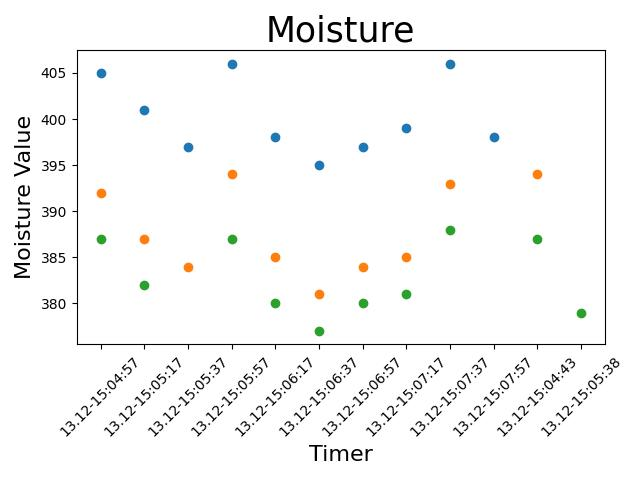
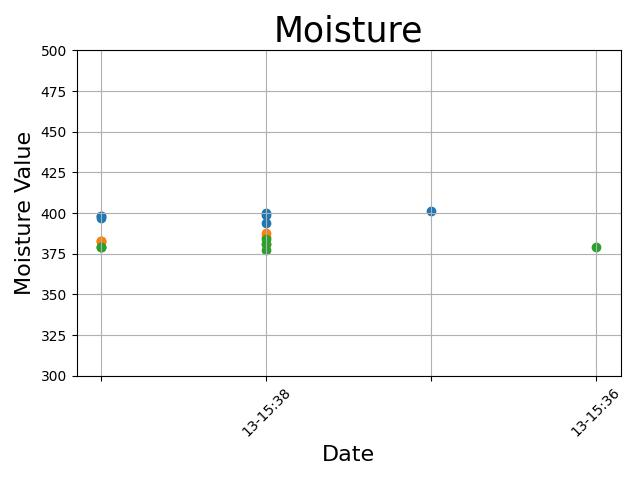
axes limit, grit x-ticks

diff --git a/MoistureEvaluationPython/DataHandeling.py b/MoistureEvaluationPython/DataHandeling.py
@@ -79,7 +79,7 @@ def receivingDateLoop():
         try:
             line = ser.readline()  # read a byte
             if line:
-                times = datetime.now().strftime('%d.%m-%H:%M:%S')
+                times = datetime.now().strftime('%d-%H:%M')    #'%d.%m-%H:%M:%S')
                 string = line.decode()  # convert the byte string to a unicode string
                 humidity = int(string[3:])  # convert the unicode string to an int
                 sensor = string[0:2]
@@ -199,15 +199,20 @@ def evaluateData(sqlHandler, table, filename):
 
     print(sx1Axes)
     print(s2Index)
-    plt.scatter(sx1Axes[:len(s1Index)], s1Index)
+    scatterplot = plt.scatter(sx1Axes[:len(s1Index)], s1Index)
+    ax = plt.gca()
     plt.scatter(sx2Axes[:len(s2Index)], s2Index)
     plt.scatter(sx3Axes[:len(s3Index)], s3Index)
     #plt.scatter( TM1['_number'], TM1['_humidity'])
-    plt.xlabel("Timer", fontsize = 16)
+    plt.xlabel("Date", fontsize = 16)
     plt.ylabel("Moisture Value", fontsize = 16)
     plt.title("Moisture", fontsize = 25)
     plt.xticks(rotation = 45)
     plt.tight_layout()
+    plt.setp(ax.get_xticklabels()[::2], visible = False)
+    plt.grid()
+    ax.set_ylim([300, 500])
+    plt.legend(["s1", "s2", "s3"])
     plt.savefig("{}.jpg".format(filename))
     plt.close()
 
@@ -246,9 +251,10 @@ def sendDataMail(filename):
 
 
 if __name__ == "__main__":
-    receivingDateLoop()
-    #sendDataMail()
-    #evaluateData()
-    #readSerialport()
+    #receivingDateLoop()
+    weeklySQL = sqlite3.connect("weeklySQL.db")
+    weeklyCursor = weeklySQL.cursor()
+    evaluateData(weeklySQL, "weekly", "weekly")
+
 
 
